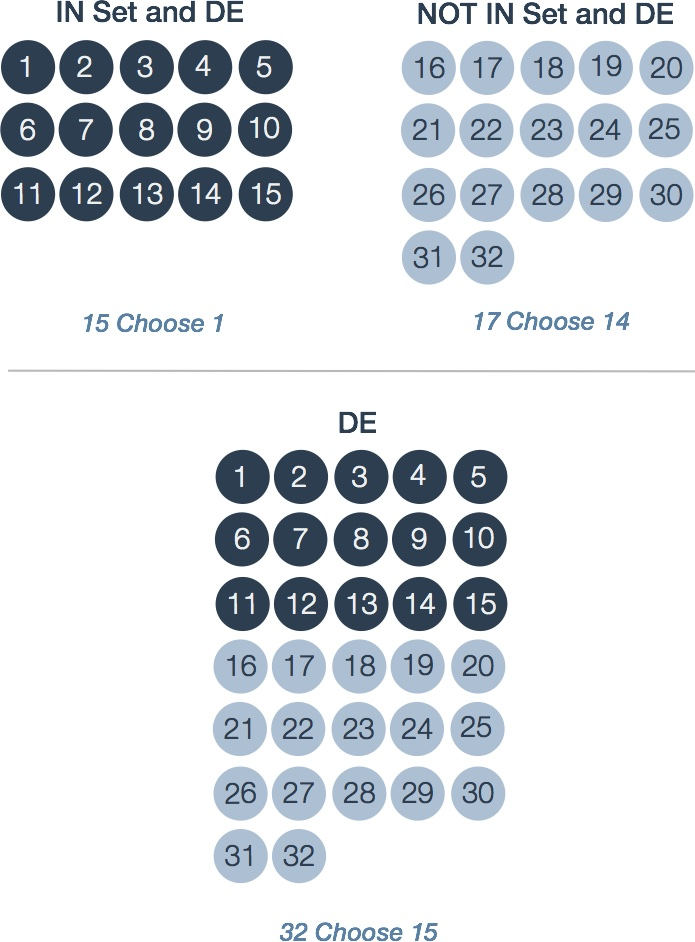
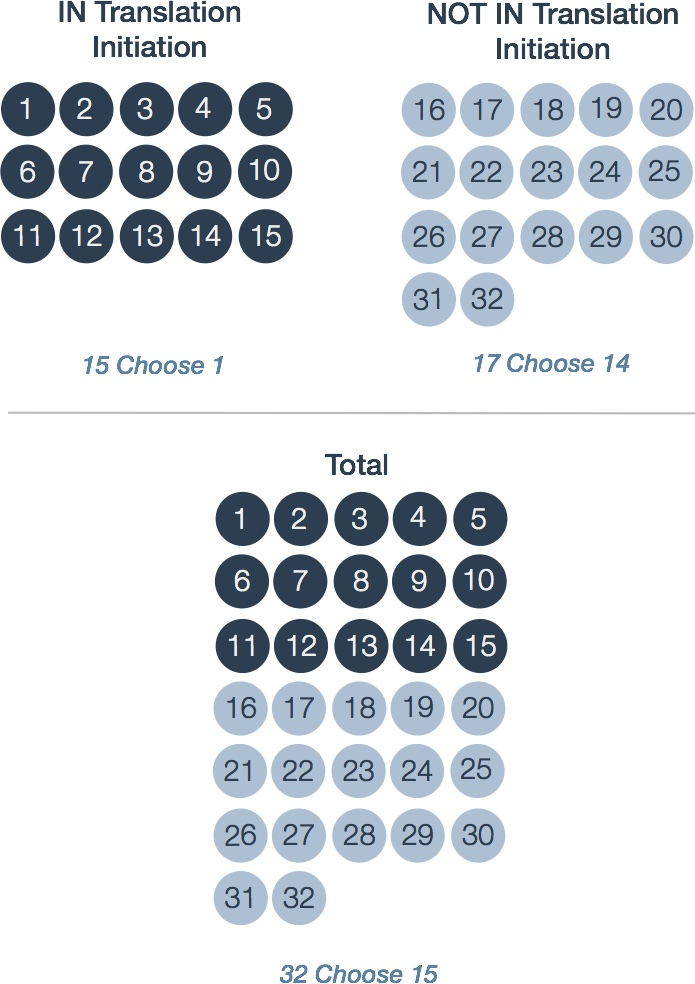
editing Fisher's Eact Test primer

diff --git a/_primers/statistics/fishers_exact_test.md b/_primers/statistics/fishers_exact_test.md
@@ -15,41 +15,50 @@ figures:
   figure_3: figure_3.jpg
 ---
 
-## Introduction
-Large-scale gene expression analyses can produce lists of genes whose sheer volume may obscure any immediate relevance to the study objective. Approaches collectively termed 'enrichment analyses' seek to unearth meaningful biological themes from such data.
+- {:.list-unstyled} Table of Contents
+  - {:.list-unstyled} [I. Introduction](#introduction)
+  - {:.list-unstyled} [II. Setup for enrichment analysis](#setup)  
+  - {:.list-unstyled} [III.Fisher's Exact Test](#fishersExactTest)
+  - {:.list-unstyled} [IV. Summary](#summary)
+  - {:.list-unstyled} [V. References](#references)
 
-In simple terms, enrichment methods source candidate 'gene sets' that represent groups of genes with some shared attribute and systematically determine whether a gene set is 'enriched' or 'depleted' within a target list arising from experimental observations. The aforemetioned gene sets are defined *a priori*, typically from  biological databases that have been curated by experts. A common source of gene sets are the various classes described within the Gene Ontology [GO](http://geneontology.org/) (Ashburner 2000).
+<hr/>
 
-Here we sketch the rationale underlying the use of the multitude of enrichment software tools now available (Khatri 2012). We frame this discussion in the context of interpreting the output of a large-scale gene expression analysis although the same principles apply to other inputs.  
+## <a href="#introduction" name="introduction">I. Introduction</a>
+Large-scale gene expression analyses can produce lists of genes whose immediate relevance to the study objective may be unclear. Approaches collectively termed 'enrichment' analyses seek to unearth meaningful biological themes from such data.
 
-## Setup for Enrichment Analysis
+Enrichment methods source candidate gene sets that share some attribute such as membership in a pathway or subcellular location. Gene sets are defined in curated biological databases such as the classes described within the Gene Ontology [GO](http://geneontology.org/) (Ashburner 2000). These sets are tested one after another to determine whether the constituents are overrepresented (or depleted) in a target gene list typically derived from experiments.
+
+Here we describe the underlying many of the enrichment software tools currently in use (Khatri 2012). This discussion is geared towards the goal of assessing GO term enrichment in the output of a large-scale gene expression analysis.  
+
+## <a href="#setup" name="setup">II. Setup for enrichment analysis</a>
 
 ### Contingency tables
-In general, data from an experiment can often be classified in several ways, for example, by age, gender, and treatment response. One may wonder if the proportions within one category (e.g. treated) are associated with the proportions of another category (e.g. treatment responder). In the case where two categories are of interest, the data can be displayed as a 2-by-2 *contingency table*.
+Data from experiments can often be classified in several ways, for example, by age, gender and treatment response. One may wonder if the proportions within one category are associated with the proportions of another category. For example, it is common to ask if individuals treated with a drug respond more often than those with a placebo. In the case where there are two categories of interest the data can be displayed as a 2-by-2 *contingency table*.
 
 > A *contingency table* shows the distribution of one variable in rows and another in columns, used to study the association between the two variables.
 
 ### A gene expression study
-Suppose we undertake a gene expression analysis comparing cells from a high-grade ovarian serous cancer (HGS-OvCa) to matched controls from a patient. After some processing, we generate a list of genes some of which are deemed 'differentially expressed' (DE) relative to control. Suppose we restrict an enrichment analysis to a single gene set, specifically genes involved in the GO biological process ['translation initiation'](http://amigo.geneontology.org/amigo/term/GO:0006413). Table 1 depicts a contingency table corresponding to some hypothetical experimental results
+Suppose we undertake a gene expression analysis comparing subtypes of high-grade ovarian serous cancer (HGS-OvCa) and we derive a list of differentially expressed genes (DEGs). For the purposes of this discussion let us restrict an enrichment analysis to a single gene set, specifically genes involved in the GO biological process ['translation initiation'](http://amigo.geneontology.org/amigo/term/GO:0006413). Table 1 depicts a contingency table corresponding to some hypothetical experimental results.
 
 **Table 1. Contingency table for HGS-OvCa gene expression data**
 ![image]({{ site.baseurl }}/{{ site.media_root }}{{ page.id }}/{{ page.figures.table_1 }}){: .img-responsive.slim.left }
 
-In this case, we have analyzed the expression of 32 genes. From the perspective of expression, the researchers were able to confidently classify 15 as differentially expressed in HGS-OvCa (bottom row, first column totals); From a gene set perspective, 15 genes were associated with the GO annotation  'translation initiation' (top row, first row totals). The totals for differential expression and gene set membership are the *marginal values*, as they lie on the periphery of our 2-by-2 table.  
+In this case, the expression of 32 genes has been analyzed: 15 DEG were identified and 15 genes were associated with the GO annotation 'translation initiation'. The totals for DEG and gene set membership are the *marginal values*, as they lie on the periphery of our 2-by-2 table.  
 
-Let us turn our attention to the middle cells which contain the *joint values* so-called because they represent genes falling under two categories (Table 1, light blue). Here, 12 genes are both differentially expressed and tagged with 'translation initiation' (top, left) which seems like a large proportion of the marginal DE gene total (12/15 DE genes). Our intuition might lead us to the opinion that this is a result worth following up on...     
+The middle cells contain *joint values* because they represent genes falling under two categories (Table 1, light blue). Here, 12 genes are both DEG and tagged with 'translation initiation'. This seems like a large proportion of the marginal DEG total (12/15 DEGs) and our intuition might lead us to the opinion that this is a result worth following up on...     
 
-In general, different numbers of genes in an experimentally derived list may be present in a given gene set. We observed 12 DE genes in out gene set but consider the case where only 9 out of the 15 DE genes met both criteria. Now consider a more realistic large-scale expression analysis with 100, 1 000, or even 20 000 total genes observed rather than just 32? It is clear that we yearn for a way to make our decision in a more explicit and standardized fashion.   
+We seemed quite confident that observing 12 DEG out of 15 in the gene set seemed like enough evidence to suggest that our ovarian cancer subtypes differed in the state of their translation initiation gene expression. However, what would we think if only 9 met both criteria? Furthermore, a more realistic large-scale expression analysis might involved thousands of genes observed rather than just 32. It is clear that we yearn for a way to make our decisions less arbitrary and more scaleable.   
 
-## Fisher's Exact Test
+## <a href="#fishersExactTest" name="fishersExactTest">III. Fisher's Exact Test</a>
 
 ### What are the chances?
-Fisher's exact test is a statistical procedure developed by R. A. Fisher in the mid 1930's at the same time as J.O. Irwin and F. Yates (Fisher 1935). Strictly speaking, the test is used to determine the probabilities of observing the various joint values within a contingency table under two important assumptions:
+Fisher's exact test is a statistical procedure developed by R. A. Fisher in the mid 1930's (Fisher 1935). Strictly speaking, the test is used to determine the probabilities of observing the various joint values within a contingency table under two important assumptions:
 
   1. The marginal values are fixed
   2. There is no association between categorical values
 
-These assumptions constitute the 'null hypothesis' ($$H_0$$): We take the *a priori* stance that the categories are independent. We simply don't know the ground truth of whether there exists a relationship between HGS-OvCa gene expression and genes involved in 'translation initiation'. Consequently, we take our actual contingency table data and calculate the probability that this or any table with more extreme joint values (unobserved) would occur under the null hypothesis. A small probability is interpreted as a discrepancy between the data and the null hypothesis of no association between variables. These calculated probabilities are 'p-values'.
+These assumptions constitute the 'null hypothesis' ($$H_0$$): We take the *a priori* stance that the categories are independent. We simply don't know the ground truth of whether there exists a relationship between HGS-OvCa subtype gene expression and genes involved in 'translation initiation'. Consequently, we take our actual contingency table data and calculate the probability that this or any table with more extreme joint values (unobserved) would occur under the null hypothesis. A small probability is interpreted as a discrepancy between the data and the null hypothesis of no association between variables. These calculated probabilities are referred to as 'p-values'.
 
 > Smaller p-values point to an interesting result only if all of the assumptions used to compute the p-value are valid
 
@@ -58,29 +67,31 @@ Let us return to the HGS-OvCa gene expression analysis example. Fisher's Exact T
 
 ![image]({{ site.baseurl }}/{{ site.media_root }}{{ page.id }}/{{ page.figures.figure_1 }}){: .img-responsive.slim }
 <div class="figure-legend well well-lg text-justify">
-  <strong>Figure 1. Possible joint values of the contingency table.</strong> The 16 possible joint values with the condition that the row and column sums remain fixed. The labels and marginal totals are identical to Table 1 but left out for clarity. The tables are arranged by increasing value of the top left quadrant, representing DE genes and those within the gene set.  
+  <strong>Figure 1. Possible joint values of the contingency table.</strong> The 16 possible joint values with the condition that the row and column sums remain fixed. The labels and marginal totals are identical to Table 1 but left out for clarity. The tables are arranged by increasing value of the top left quadrant, representing DEGs and those within the gene set.  
 </div>
 
 ### Let us count the ways
-There may exist 16 possible arrangements of joint values for fixed marginal totals, however, this does not imply that each is equally likely. To see why, consider the arrangement in the first row and second column of (Figure 1; R1-C2): This arrangement is reproduced in Table 2 and shows 1 DE gene that is a member of the gene set leaving 14 DE genes outside. To calculate the probability of this (unobserved) arrangement under the null hypothesis, we will make use of the rules for [combinations]({{ site.baseurl }}/primers/statistics/permutations_combinations/).
+There may exist 16 possible arrangements of joint values for fixed marginal totals, however, this does not imply that each is equally likely. To see why, consider the arrangement in the first row and second column of (Figure 1; R1-C2): This arrangement is reproduced in Table 2 and shows 1 DEG that is a member of the gene set leaving 14 DEGs outside. To calculate the probability of this (unobserved) arrangement under the null hypothesis, we will make use of the rules for [combinations]({{ site.baseurl }}/primers/statistics/permutations_combinations/).
 
 **Table 2. Contingency table for arrangement R1-C2**
 ![image]({{ site.baseurl }}/{{ site.media_root }}{{ page.id }}/{{ page.figures.table_2 }}){: .img-responsive.slim.left }
 
-R.A. Fisher's insight was to leverage the rules for enumerating combinations to derive an exact probability for any given contingency table under the null hypothesis. For our 32 genes of which 15 are DE and 15 are within a gene set, we must first calculate the ways that each of the joint values could have arisen simply by randomly selecting genes. We illustrate the process for the arrangement in Table 2 and the process proceeds by calculating three values, one for each row:
+R.A. Fisher's insight was to leverage the rules for enumerating combinations to derive an exact probability for any given contingency table under the null hypothesis. For our 32 genes of which 15 are DEG and 15 are within a gene set, we must first calculate the ways that each of the joint values could have arisen simply by randomly selecting genes. We illustrate the process for the arrangement in Table 2 and the process proceeds by calculating three values, one for each row:
 
-  1. Ways to select 1 DE gene *without replacement* out of 15 tagged IN the gene set
-  2. Ways to select 14 DE genes *without replacement* from 17 tagged NOT IN the gene set
-  3. Ways to select 15 DE genes *without replacement* from 32 total
+  1. Ways to select 1 DEG *without replacement* out of 15 tagged IN the gene set
+  2. Ways to select 14 DEGs *without replacement* from 17 tagged NOT IN the gene set
+  3. Ways to select 15 DEGs *without replacement* from 32 total
 
-These three values are sufficient to calculate the probability of any contingency table. For Table 2, the first number represents the ways 1 DE gene can be selected from 15 possible within the gene set 'translation initiation'. In statistical jargon, this amounts to calculating '15 Choose 1' (Figure 2, top left). There are exactly 15 ways this can be done: One for each of the 15 genes with the tag. Similarly, there are 680 or '17 Choose 14' ways that 14 DE genes can be selected from 17 outside of the gene set (Figure 2, top right). To see this, in Figure 2 consider selecting genes labelled {16 through 29}; Note however, one can also select {16 through 28 and 30} or {16 through 28 and 31} and so on. The third number '32 Choose 15' is precisely 565 722 720.
+These three values are sufficient to calculate the probability of any particular contingency table. The first number represents the ways 1 DEG can be selected from 15 possible 'IN Translation Initiation' (Figure 2, top left). In statistical jargon, this is described as '15 Choose 1'. There are exactly 15 ways this can be done: One for each of the 15 genes with the tag.
+
+Similarly, there are '17 Choose 14' or 680 ways that 14 DEGs can be selected from 17 'NOT IN Translation Initiation'. To see this, consider the 17 genes labeled 16 through 32 in the top right group of Figure 2. We can choose 14 genes by selecting those labelled 16 through 29. Alternatively, one can also select 16 through 28 then 30 or for that matter 16 through 28 then 31 and so on. The third number '32 Choose 15' is precisely 565 722 720.
 
 ![image]({{ site.baseurl }}/{{ site.media_root }}{{ page.id }}/{{ page.figures.figure_2 }}){: .img-responsive.slim }
 <div class="figure-legend well well-lg text-justify">
-  <strong>Figure 2. Depicting the calculations required to derive the probability of observing contingency table 'R1-C2'</strong> Three values are required to calculate the probability of the contingency Table 2. 'IN Set' refers to those genes labelled with the term 'translation initiation' and vice versa for those labelled 'NOT IN Set'. DE refers to differentially expressed genes.
+  <strong>Figure 2. Calculations underlying the probability of a contingency table.</strong> The three groups correspond to the marginal totals for each row in Table 2. A contingency table's total probability is defined by the three probabilities of choosing DEGs from each group: 1 DEG from 'IN Translation Initiation'; 14 from 'NOT IN Translation Initiation'; and 15 DEGs from the 32 total genes.
 </div>
 
-The probability of observing this arragement then is given by the quotient:
+The probability of observing this arrangement then is given by the quotient:
 
 $$
 \begin{equation*}
@@ -94,11 +105,11 @@ $$
 Some of you may recognize the expression on the left as the probability function for the [hypergeometric distribution]({{ site.baseurl }}/primers/statistics/distributions/#hypergeometric).
 
 ### What are the probabilities?
-At this point we have the basic building blocks to describe Fisher's Exact Test. Referring to our HGS-OvCa example, we have in hand the contingency table of observed joint values. Fisher's Exact Test amounts to enumerating the possible contingency table arrangements and calculating the probability of observing our table of observed joint values **in addition to those more extreme than our table**. The possible tables and their respective probabilities are displayed in Figure 3.
+At this point we have the basic building blocks to describe Fisher's Exact Test. Referring to our HGS-OvCa example, we have in hand the probability of our contingency table of observed joint values (Table 2). Fisher's Exact Test amounts to summing the probability of observing our table of observed joint values **in addition to those more extreme than our table**. The possible tables and their respective probabilities are displayed in red Figure 3.
 
 ![image]({{ site.baseurl }}/{{ site.media_root }}{{ page.id }}/{{ page.figures.figure_3 }}){: .img-responsive.slim }
 <div class="figure-legend well well-lg text-justify">
-  <strong>Figure 3. Probabilities of the various contingency table joint values.</strong> Shown are the 16 possible arrangments of joint values with the condition that the row and column sums remain fixed. Underneath each is the probability (p) calculated using the probability function of the hypergeometric distribution. The red tables represent those having joint values equal to or more extreme than 12 genes both DE and tagged with 'translation initation'.   
+  <strong>Figure 3. Probabilities of the various contingency table joint values.</strong> Shown are the 16 possible arrangments of joint values with the condition that the row and column sums remain fixed. Underneath each is the probability (p) calculated using the probability function of the hypergeometric distribution. The red tables represent those having joint values equal to or more extreme than 12 genes both DE and tagged with 'IN Translation Initation'.   
 </div>
 
 ### One-Sided tests
@@ -117,7 +128,7 @@ $$
 From this result, we claim that the probability of our observed data or that more extreme under the assumption that there is no association between expression and gene set membership is 0.0005726. Whether this represents an interesting discrepancy from the null hypothesis, an experiment worth repeating, or an 'enrichment' of genes in the set amongst DE genes is left up to the researcher's interest and expertise.
 
 ### Two-Sided tests
-We have not yet considered the possibility that DE genes may contain fewer members of the gene set than would be expected if genes were sampled randomly, that is, DE genes are 'depleted' for 'translation initiation'. The two-sided Fisher's Exact Test accounts for the notion of both 'enrichment' and 'depletion'. Although there are several flavours of the test (Rivals 2006), we demonstrate an approach whereby the tables with probabilities smaller than our observed data ($$p=0.0005469$$) are summed
+We have not yet considered the possibility that DEGs may contain fewer members of the gene set than would be expected if genes were sampled randomly, that is, DEGs are depleted for 'IN Translation Initiation'. The two-sided Fisher's Exact Test accounts for both enrichment and depletion. Although there are several flavours of the test (Rivals 2006), we demonstrate an approach whereby the tables with probabilities smaller than our observed data ($$p=0.0005469$$) are summed
 
 $$
 \begin{equation*}
@@ -131,11 +142,11 @@ $$
 
 This result is just under double the one-sided p-value, resulting from an 'uneven' distribution of p-values about the mean. Once again, whether this represents a valuable discrepancy from the null hypothesis and an observation worth following up on is left up to the discretion of the researcher.
 
-## Summary
+## <a href="#summary" name="summary">IV. Summary</a>
 This primer has described the context and rationale for Fisher's Exact Test as a basis for determining gene set enrichment in gene expression data. Many software packages employ some variation on this theme, and there has been much discussion with regards to the assumptions, limitations, and overall relevance of this class of procedures (Khatri 2005, Goeman 2007). We leave these more nuanced discussions for the reader to follow up ons.
 
 <hr/>
-## References
+## <a href="#references" name="references">V. References</a>
   - Ashburner M. et al. Gene ontology: tool for the unification of biology. The Gene Ontology Consortium. Nature Genetics v25 pp. 22-29, 2000.
   - Fisher, R. A. The logic of inductive inference. J. Roy. Statist. Soc. 98, pp. 39-82, 1935.
   - Greenland S. et al. Statistical tests, P values, confidence intervals, and power: a guide to misinterpretations. European Journal of Epidemiology, v31(4) pp. 337-350, 2016.

diff --git a/_datasets/2011-06-cancer-genome-atlas-research-network.md b/_datasets/2011-06-cancer-genome-atlas-research-network.md
@@ -406,6 +406,8 @@ This data will only contain a subset of the 489 cases declared in the Supplement
   <strong>Figure 8. RNA-Seq data file layout.</strong> Column labels show case UUID and row labels are gene IDs using the ENSG namespace
 </div>
 
+<hr/>
+
 - {:.list-unstyled} Subtype assignments: <a href="{{ site.baseurl }}/{{ site.media_root }}{{ page.id }}/{{page.data.tcgaov_subtypes }}" download>`TCGAOv_subtypes.txt.zip`</a>(28 KB)
   - Format: tab-delimited
   - Cases: 369

diff --git a/_primers/statistics/distributions.md b/_primers/statistics/distributions.md
@@ -10,6 +10,11 @@ category: statistics
 layout: markdown
 ---
 
+- {:.list-unstyled} Table of Contents
+  - {:.list-unstyled} [I. Hypergeometric Distribution](#hypergeometric)
+  
+<hr/>
+
 ## <a href="#hypergeometric" name="hypergeometric">Hypergeometric Distribution</a>
 
 ### A Physical Setup
